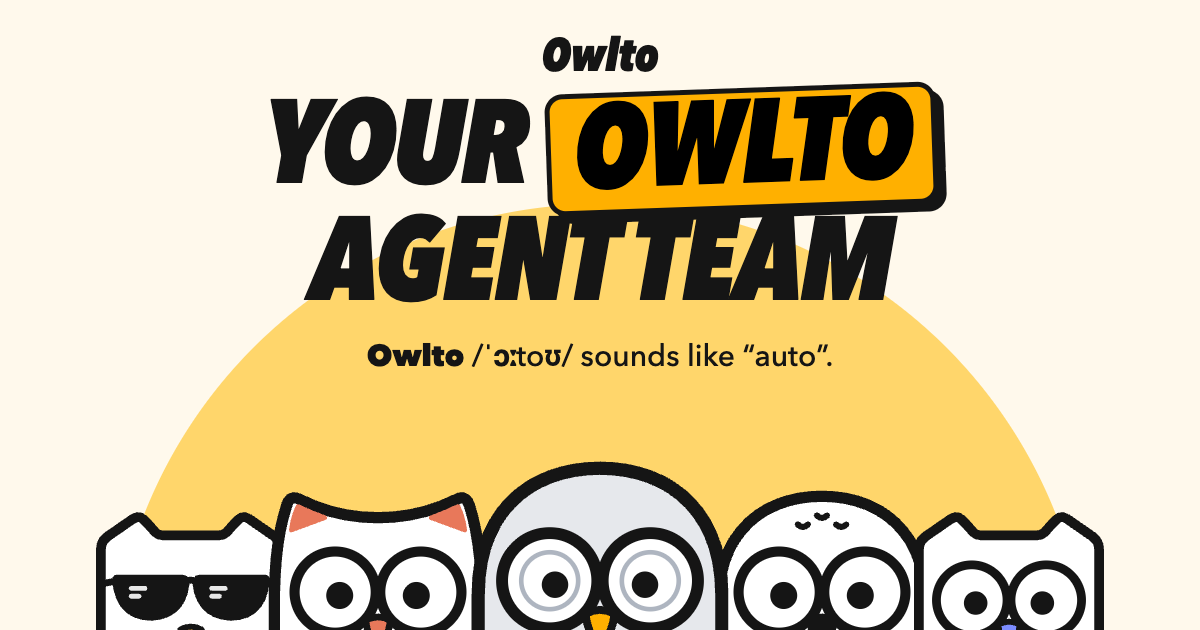
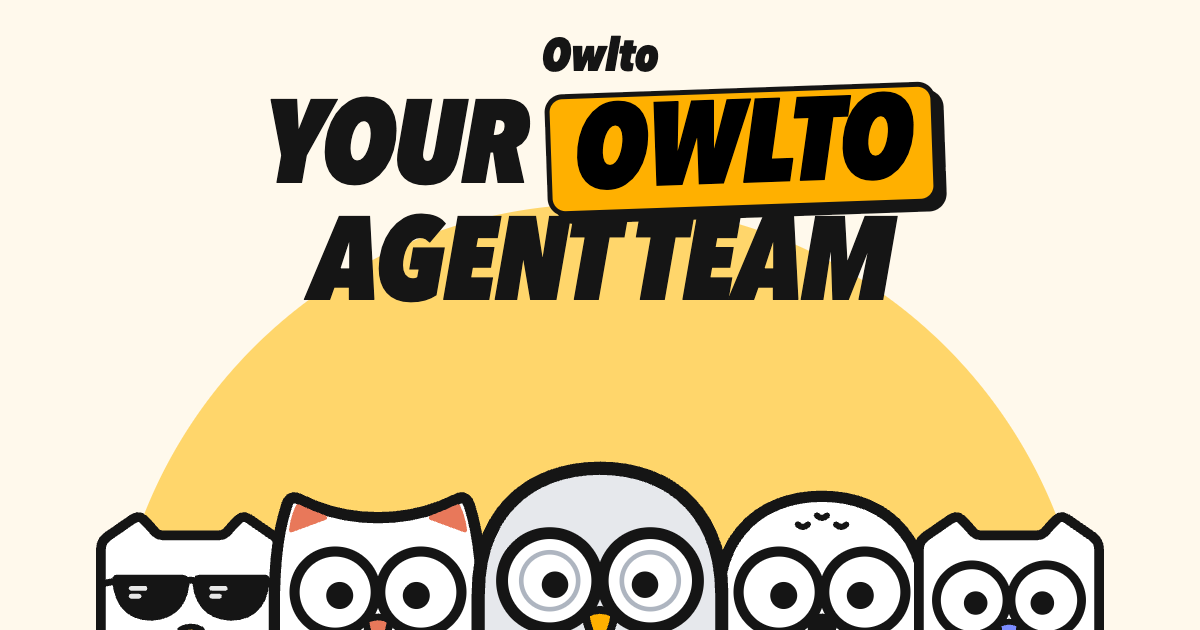
fix(website): drop the pronunciation line from the hero

Changed region(s): [[0.3083, 0.5429, 0.7092, 0.6032]]

diff --git a/apps/owlto-website/public/assets/styles.css b/apps/owlto-website/public/assets/styles.css
@@ -880,32 +880,6 @@ pre {
   }
 }
 
-.say {
-  display: inline-flex;
-  flex-wrap: wrap;
-  align-items: baseline;
-  justify-content: center;
-  gap: 4px 10px;
-  margin-bottom: 14px;
-  padding: 5px 18px;
-  background: var(--card);
-  border: 2.5px dashed var(--line);
-  border-radius: 999px;
-  color: var(--muted);
-  font-weight: 600;
-}
-
-.say b {
-  color: var(--fg);
-  font: italic 900 1.3rem / 1 var(--display);
-}
-
-.say span {
-  color: var(--fg);
-  font-family: var(--mono);
-  font-size: 0.92rem;
-}
-
 /* Chaos: nine terminals in a loose 3x3 grid */
 .chaos-copy h2 {
   font-size: clamp(2.1rem, 4.7vw, 3.9rem);
